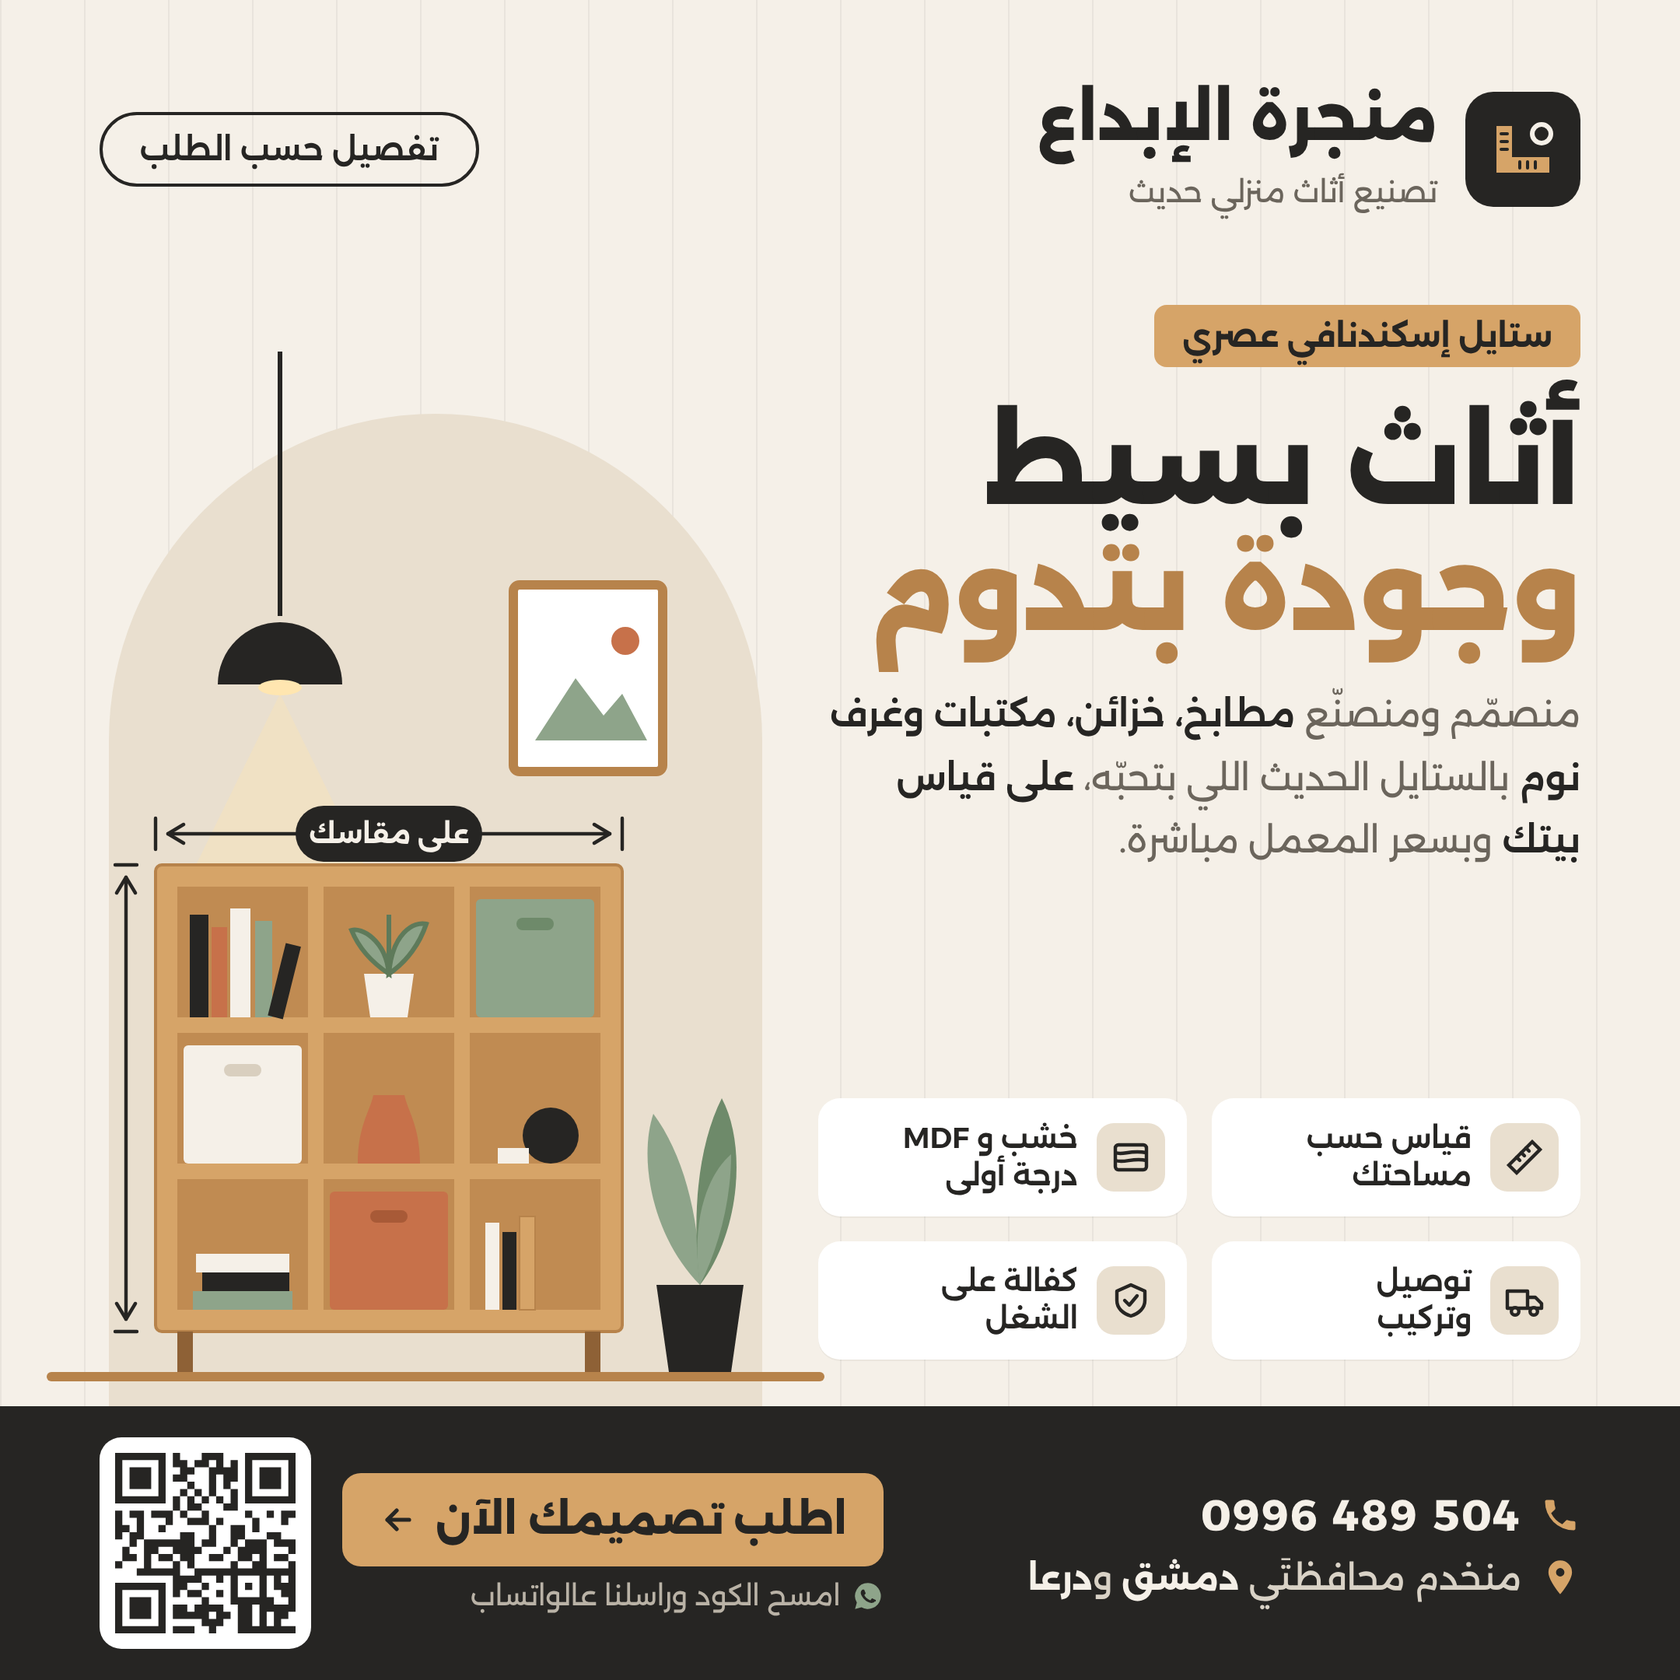
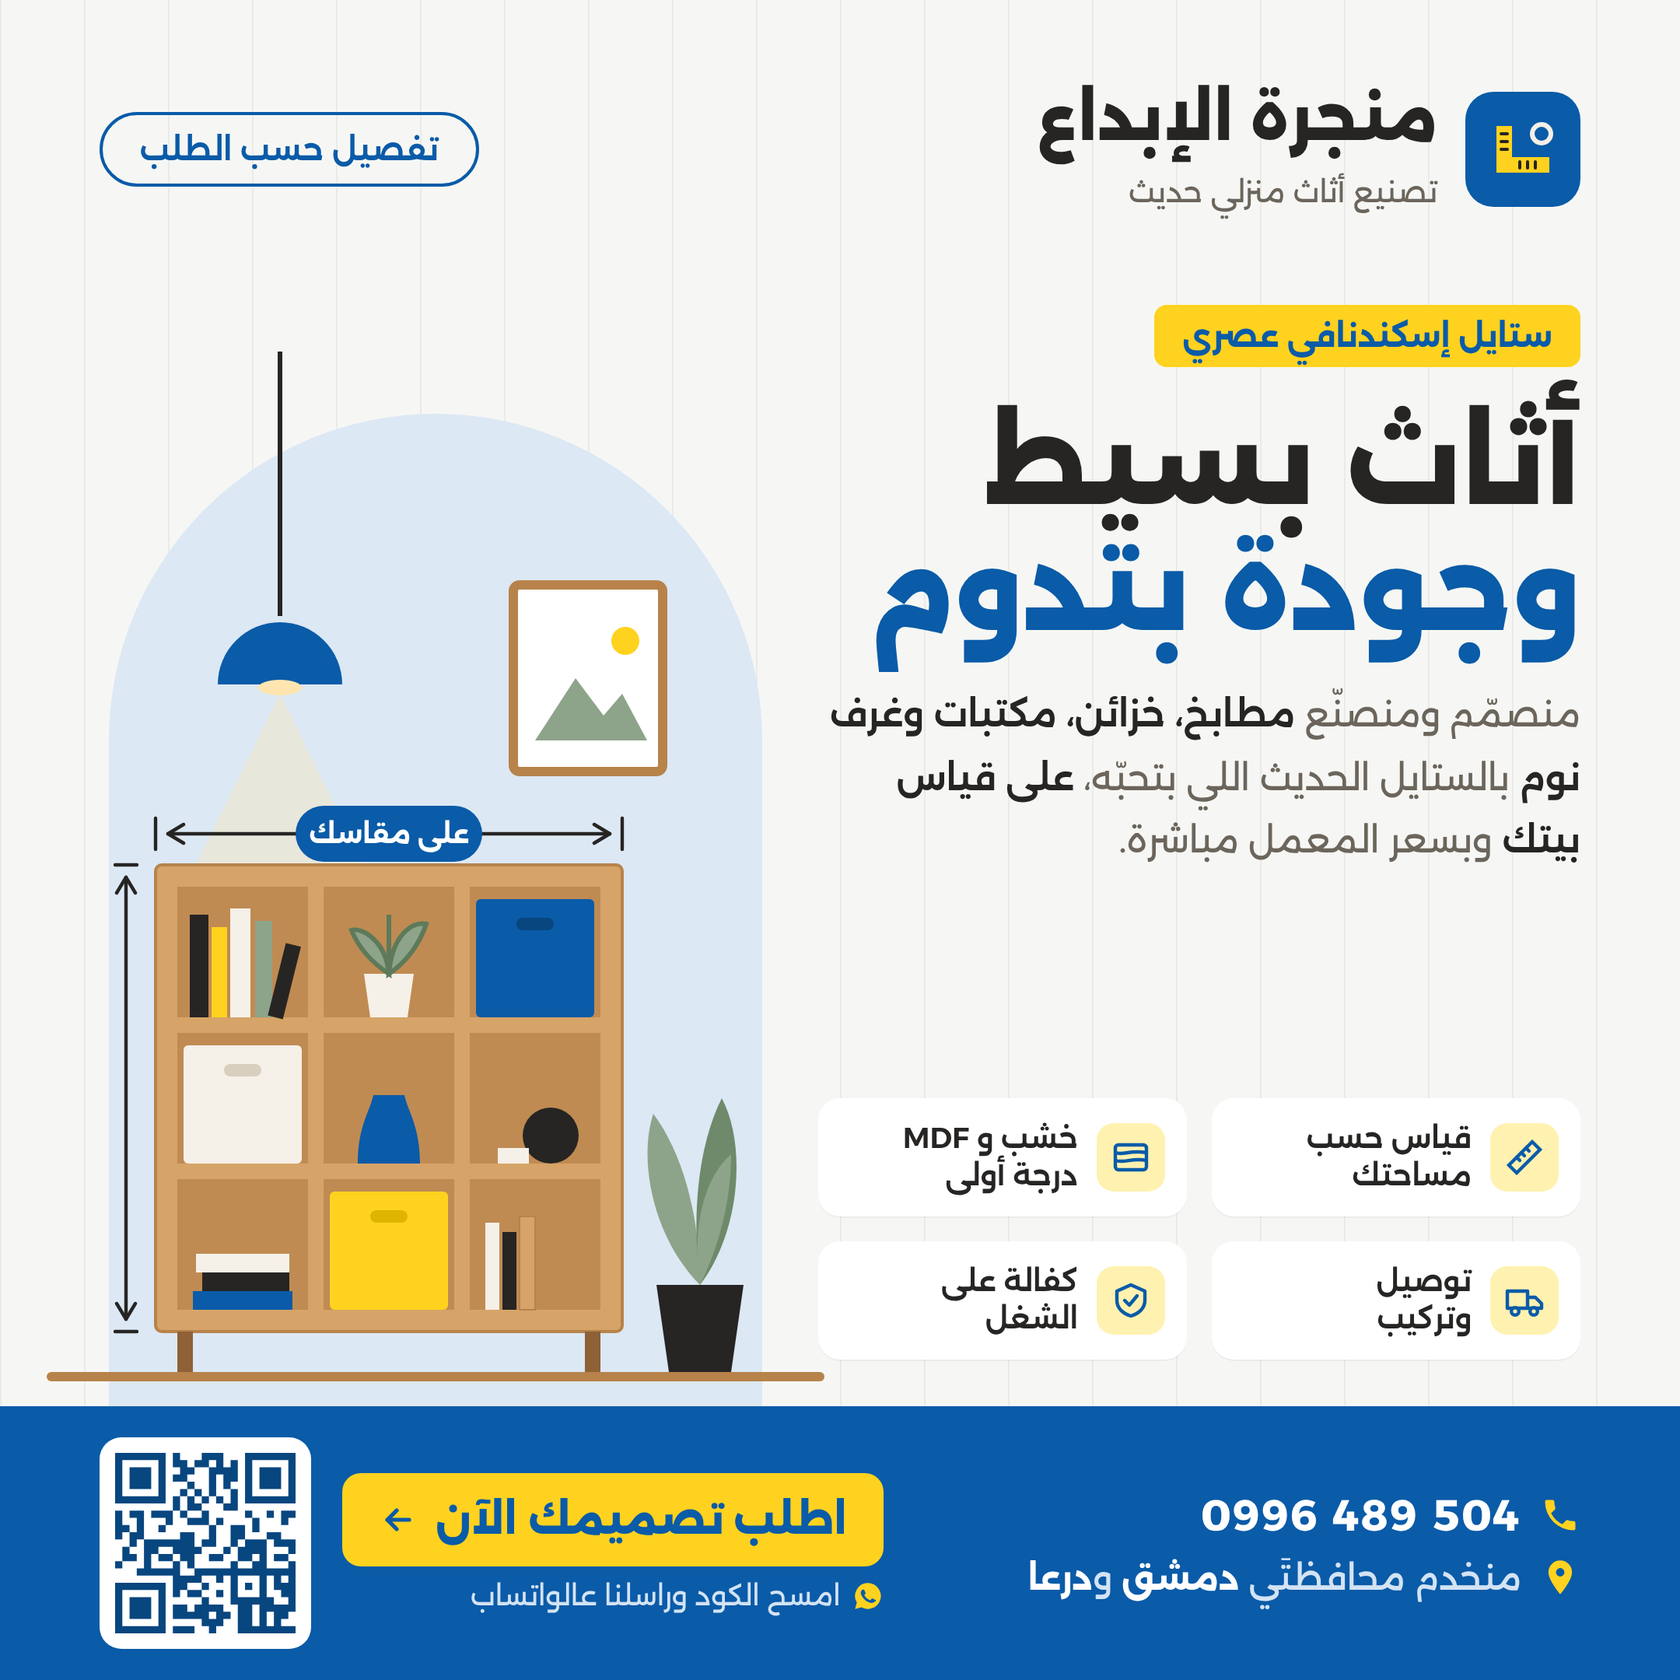
Carpentry promo: blue and yellow color version, keep wood version
Claude-Session: https://claude.ai/code/session_01K9B5MtyaZrtSwtukP1DPcb

diff --git a/marketing/carpentry-square/design-wood.html b/marketing/carpentry-square/design-wood.html
@@ -6,42 +6,42 @@
 <style>
 @font-face{font-family:A;src:url(alexandria-arabic-wght-normal.woff2) format('woff2');font-weight:100 900;unicode-range:U+0600-06FF,U+0750-077F,U+FB50-FDFF,U+FE70-FEFF,U+200C-200E}
 @font-face{font-family:A;src:url(alexandria-latin-wght-normal.woff2) format('woff2');font-weight:100 900}
-:root{--cream:#F5F0E8;--beige:#E9DFCF;--oak:#D6A468;--oak2:#B7834B;--oak3:#8E6136;--ink:#262523;--muted:#6B655C;--sage:#8EA48A;--terra:#C7714A;--blue:#0A5BA8;--yel:#FFD21F;--paper:#F6F7F4;--sky:#DCE8F4}
+:root{--cream:#F5F0E8;--beige:#E9DFCF;--oak:#D6A468;--oak2:#B7834B;--oak3:#8E6136;--ink:#262523;--muted:#6B655C;--sage:#8EA48A;--terra:#C7714A}
 *{margin:0;padding:0;box-sizing:border-box}
-html,body{width:1080px;height:1080px;background:var(--paper);font-family:A,sans-serif;color:var(--ink);overflow:hidden}
+html,body{width:1080px;height:1080px;background:var(--cream);font-family:A,sans-serif;color:var(--ink);overflow:hidden}
 .c{position:relative;width:1080px;height:1080px;overflow:hidden}
 /* grain lines */
 .wood-lines{position:absolute;inset:0;opacity:.05;background:repeating-linear-gradient(90deg,#000 0 1px,transparent 1px 54px)}
 header{position:absolute;top:56px;right:64px;left:64px;display:flex;align-items:center;justify-content:space-between}
 .brand{display:flex;align-items:center;gap:18px}
-.mark{width:74px;height:74px;border-radius:18px;background:var(--blue);display:grid;place-items:center}
+.mark{width:74px;height:74px;border-radius:18px;background:var(--ink);display:grid;place-items:center}
 .bname{font-weight:800;font-size:40px;line-height:1}
 .btag{font-weight:400;font-size:19px;color:var(--muted);margin-top:16px}
-.pill{border:2px solid var(--blue);color:var(--blue);border-radius:999px;padding:10px 24px;font-weight:600;font-size:20px}
+.pill{border:2px solid var(--ink);border-radius:999px;padding:10px 24px;font-weight:600;font-size:20px}
 .text{position:absolute;top:196px;right:64px;width:490px;bottom:206px;display:flex;flex-direction:column;align-items:flex-start}
-.kicker{display:inline-block;background:var(--yel);color:var(--blue);font-weight:700;font-size:20px;padding:8px 18px;border-radius:8px}
+.kicker{display:inline-block;background:var(--oak);color:var(--ink);font-weight:700;font-size:20px;padding:8px 18px;border-radius:8px}
 h1{white-space:nowrap;font-weight:800;font-size:72px;line-height:1.12;margin-top:22px;letter-spacing:-.5px}
-h1 span{color:var(--blue)}
+h1 span{color:var(--oak2)}
 .sub{font-size:23px;line-height:1.75;color:var(--muted);margin-top:20px;font-weight:400}
 .sub b{color:var(--ink);font-weight:600}
 .feats{margin-top:auto;width:100%;display:grid;grid-template-columns:1fr 1fr;gap:16px}
 .f{display:flex;align-items:center;gap:12px;background:#fff;border-radius:14px;padding:14px 14px;box-shadow:0 1px 0 rgba(0,0,0,.04)}
-.f i{flex:none;width:44px;height:44px;border-radius:11px;background:#FFF1B0;display:grid;place-items:center}
+.f i{flex:none;width:44px;height:44px;border-radius:11px;background:var(--beige);display:grid;place-items:center}
 .f p{font-size:18.5px;font-weight:600;line-height:1.3}
 .art{position:absolute;left:30px;top:226px;width:500px;height:700px}
-footer{position:absolute;bottom:0;left:0;right:0;height:176px;background:var(--blue);color:#fff;display:flex;align-items:center;justify-content:space-between;padding:0 64px}
+footer{position:absolute;bottom:0;left:0;right:0;height:176px;background:var(--ink);color:var(--cream);display:flex;align-items:center;justify-content:space-between;padding:0 64px}
 .wa{display:flex;align-items:center;gap:20px}
 .wa-t{display:flex;flex-direction:column;gap:8px;align-items:flex-start}
-.cta{background:var(--yel);color:var(--blue);font-weight:800;font-size:26px;padding:14px 24px;border-radius:12px;display:flex;align-items:center;gap:12px}
-.wa-t small{font-size:18px;color:#D3E3F4;display:flex;align-items:center;gap:8px}
+.cta{background:var(--oak);color:var(--ink);font-weight:800;font-size:26px;padding:14px 24px;border-radius:12px;display:flex;align-items:center;gap:12px}
+.wa-t small{font-size:18px;color:#B9B2A6;display:flex;align-items:center;gap:8px}
 .qr{flex:none;width:136px;height:136px;background:#fff;border-radius:14px;padding:10px}
 .qr img{display:block;width:100%;height:100%}
 .contact{display:flex;flex-direction:column;gap:10px}
 .row{display:flex;align-items:center;gap:12px;font-size:22px;font-weight:500}
 .row .num{font-weight:700;font-size:28px;letter-spacing:1px;direction:ltr;unicode-bidi:isolate}
 .row small{color:#B9B2A6;font-size:19px}
-.area{font-size:22px;color:#D3E3F4}
-.area b{color:#fff;font-weight:700}
+.area{font-size:22px;color:#D9D2C6}
+.area b{color:var(--cream);font-weight:700}
 </style>
 </head>
 <body>
@@ -53,8 +53,8 @@ footer{position:absolute;bottom:0;left:0;right:0;height:176px;background:var(--b
       <div class="mark">
         <!-- plank + square tool mark -->
         <svg width="46" height="46" viewBox="0 0 46 46" fill="none">
-          <path d="M6 8h10v30H6z" fill="#FFD21F"/>
-          <path d="M16 28h24v10H16z" fill="#FFD21F"/>
+          <path d="M6 8h10v30H6z" fill="#D6A468"/>
+          <path d="M16 28h24v10H16z" fill="#D6A468"/>
           <path d="M9 13h4M9 18h4M9 23h4M21 31v4M26 31v4M31 31v4" stroke="#262523" stroke-width="2" stroke-linecap="round"/>
           <circle cx="35" cy="13" r="6" stroke="#F5F0E8" stroke-width="3"/>
         </svg>
@@ -72,10 +72,10 @@ footer{position:absolute;bottom:0;left:0;right:0;height:176px;background:var(--b
     <h1>أثاث بسيط<br><span>وجودة بتدوم</span></h1>
     <p class="sub">منصمّم ومنصنّع <b>مطابخ، خزائن، مكتبات وغرف نوم</b> بالستايل الحديث اللي بتحبّه، <b>على قياس بيتك</b> وبسعر المعمل مباشرة.</p>
   <div class="feats">
-    <div class="f"><i><svg width="26" height="26" viewBox="0 0 26 26" fill="none" stroke="#0A5BA8" stroke-width="2.2" stroke-linecap="round"><path d="M3 18 18 3l5 5L8 23z"/><path d="M8 13l2 2M11 10l2 2M14 7l2 2"/></svg></i><p>قياس حسب<br>مساحتك</p></div>
-    <div class="f"><i><svg width="26" height="26" viewBox="0 0 26 26" fill="none" stroke="#0A5BA8" stroke-width="2.2" stroke-linejoin="round"><rect x="3" y="5" width="20" height="16" rx="2"/><path d="M3 10c5 2 9-2 20 0M3 15c6 2 11-2 20 0"/></svg></i><p>خشب و MDF<br>درجة أولى</p></div>
-    <div class="f"><i><svg width="26" height="26" viewBox="0 0 26 26" fill="none" stroke="#0A5BA8" stroke-width="2.2" stroke-linejoin="round"><path d="M2 7h13v11H2zM15 11h5l4 4v3h-9z"/><circle cx="7" cy="20" r="2.4" fill="#FFF1B0"/><circle cx="19" cy="20" r="2.4" fill="#FFF1B0"/></svg></i><p>توصيل<br>وتركيب</p></div>
-    <div class="f"><i><svg width="26" height="26" viewBox="0 0 26 26" fill="none" stroke="#0A5BA8" stroke-width="2.2" stroke-linecap="round" stroke-linejoin="round"><path d="M13 3 4 7v6c0 5 4 8.5 9 10 5-1.5 9-5 9-10V7z"/><path d="m9 13 3 3 5-6"/></svg></i><p>كفالة على<br>الشغل</p></div>
+    <div class="f"><i><svg width="26" height="26" viewBox="0 0 26 26" fill="none" stroke="#262523" stroke-width="2.2" stroke-linecap="round"><path d="M3 18 18 3l5 5L8 23z"/><path d="M8 13l2 2M11 10l2 2M14 7l2 2"/></svg></i><p>قياس حسب<br>مساحتك</p></div>
+    <div class="f"><i><svg width="26" height="26" viewBox="0 0 26 26" fill="none" stroke="#262523" stroke-width="2.2" stroke-linejoin="round"><rect x="3" y="5" width="20" height="16" rx="2"/><path d="M3 10c5 2 9-2 20 0M3 15c6 2 11-2 20 0"/></svg></i><p>خشب و MDF<br>درجة أولى</p></div>
+    <div class="f"><i><svg width="26" height="26" viewBox="0 0 26 26" fill="none" stroke="#262523" stroke-width="2.2" stroke-linejoin="round"><path d="M2 7h13v11H2zM15 11h5l4 4v3h-9z"/><circle cx="7" cy="20" r="2.4" fill="#E9DFCF"/><circle cx="19" cy="20" r="2.4" fill="#E9DFCF"/></svg></i><p>توصيل<br>وتركيب</p></div>
+    <div class="f"><i><svg width="26" height="26" viewBox="0 0 26 26" fill="none" stroke="#262523" stroke-width="2.2" stroke-linecap="round" stroke-linejoin="round"><path d="M13 3 4 7v6c0 5 4 8.5 9 10 5-1.5 9-5 9-10V7z"/><path d="m9 13 3 3 5-6"/></svg></i><p>كفالة على<br>الشغل</p></div>
   </div>
   </section>
 
@@ -83,14 +83,14 @@ footer{position:absolute;bottom:0;left:0;right:0;height:176px;background:var(--b
   <!-- Illustration -->
   <svg class="art" viewBox="0 0 500 700" fill="none">
     <!-- backdrop arch -->
-    <path d="M40 690V250a210 210 0 0 1 420 0v440z" fill="#DCE8F4"/>
+    <path d="M40 690V250a210 210 0 0 1 420 0v440z" fill="#E9DFCF"/>
     <!-- wall frame -->
     <rect x="300" y="150" width="96" height="120" rx="4" fill="#fff" stroke="#B7834B" stroke-width="6"/>
     <path d="M314 250l26-40 18 24 12-14 16 30z" fill="#8EA48A"/>
-    <circle cx="372" cy="186" r="9" fill="#FFD21F"/>
+    <circle cx="372" cy="186" r="9" fill="#C7714A"/>
     <!-- pendant lamp -->
     <path d="M150 0v170" stroke="#262523" stroke-width="3"/>
-    <path d="M110 214a40 40 0 0 1 80 0z" fill="#0A5BA8"/>
+    <path d="M110 214a40 40 0 0 1 80 0z" fill="#262523"/>
     <ellipse cx="150" cy="216" rx="14" ry="5" fill="#FFE6B0"/>
     <path d="M150 220 96 330h108z" fill="#FFE6B0" opacity=".35"/>
     <!-- shelf unit 3x3 -->
@@ -105,20 +105,20 @@ footer{position:absolute;bottom:0;left:0;right:0;height:176px;background:var(--b
       </g>
       <!-- contents -->
       <!-- books -->
-      <rect x="92" y="362" width="12" height="66" fill="#262523"/><rect x="106" y="370" width="10" height="58" fill="#FFD21F"/><rect x="118" y="358" width="13" height="70" fill="#F5F0E8"/><rect x="134" y="366" width="11" height="62" fill="#8EA48A"/>
+      <rect x="92" y="362" width="12" height="66" fill="#262523"/><rect x="106" y="370" width="10" height="58" fill="#C7714A"/><rect x="118" y="358" width="13" height="70" fill="#F5F0E8"/><rect x="134" y="366" width="11" height="62" fill="#8EA48A"/>
       <rect x="142" y="380" width="10" height="48" fill="#262523" transform="rotate(14 147 428)"/>
       <!-- plant in pot -->
       <path d="M204 400h32l-4 28h-24z" fill="#F5F0E8"/>
       <path d="M220 400c-2-22-18-30-24-28 4 10 12 20 24 28zM220 400c2-26 16-34 24-32-4 12-12 24-24 32zM220 400c0-20 0-30 0-38" stroke="#5E7A5A" stroke-width="3" fill="#8EA48A"/>
       <!-- bins -->
-      <rect x="276" y="352" width="76" height="76" rx="3" fill="#0A5BA8"/><rect x="302" y="364" width="24" height="8" rx="4" fill="#08467F"/>
+      <rect x="276" y="352" width="76" height="76" rx="3" fill="#8EA48A"/><rect x="302" y="364" width="24" height="8" rx="4" fill="#6E8A6A"/>
       <rect x="88" y="446" width="76" height="76" rx="3" fill="#F5F0E8"/><rect x="114" y="458" width="24" height="8" rx="4" fill="#D9CFBF"/>
       <!-- vase + ball -->
-      <path d="M200 522c0-24 8-34 10-44h20c2 10 10 20 10 44z" fill="#0A5BA8"/>
+      <path d="M200 522c0-24 8-34 10-44h20c2 10 10 20 10 44z" fill="#C7714A"/>
       <circle cx="324" cy="504" r="18" fill="#262523"/><rect x="290" y="512" width="20" height="10" fill="#F5F0E8"/>
       <!-- bottom row -->
-      <rect x="182" y="540" width="76" height="76" rx="3" fill="#FFD21F"/><rect x="208" y="552" width="24" height="8" rx="4" fill="#E0B400"/>
-      <rect x="96" y="580" width="60" height="12" fill="#F5F0E8"/><rect x="100" y="592" width="56" height="12" fill="#262523"/><rect x="94" y="604" width="64" height="12" fill="#0A5BA8"/>
+      <rect x="182" y="540" width="76" height="76" rx="3" fill="#C7714A"/><rect x="208" y="552" width="24" height="8" rx="4" fill="#A85A37"/>
+      <rect x="96" y="580" width="60" height="12" fill="#F5F0E8"/><rect x="100" y="592" width="56" height="12" fill="#262523"/><rect x="94" y="604" width="64" height="12" fill="#8EA48A"/>
       <rect x="282" y="560" width="9" height="56" fill="#F5F0E8"/><rect x="293" y="566" width="9" height="50" fill="#262523"/><rect x="304" y="556" width="10" height="60" fill="#D6A468" stroke="#B7834B"/>
       <!-- legs -->
       <rect x="84" y="630" width="10" height="26" fill="#8E6136"/><rect x="346" y="630" width="10" height="26" fill="#8E6136"/>
@@ -135,8 +135,8 @@ footer{position:absolute;bottom:0;left:0;right:0;height:176px;background:var(--b
       <path d="M70 300v20M370 300v20M78 310h284"/>
       <path d="M78 310l10-6M78 310l10 6M362 310l-10-6M362 310l-10 6"/>
     </g>
-    <rect x="160" y="292" width="120" height="36" rx="18" fill="#0A5BA8"/>
-    <text x="220" y="316" text-anchor="middle" font-family="A" font-weight="700" font-size="17" fill="#fff">على مقاسك</text>
+    <rect x="160" y="292" width="120" height="36" rx="18" fill="#262523"/>
+    <text x="220" y="316" text-anchor="middle" font-family="A" font-weight="700" font-size="17" fill="#F5F0E8">على مقاسك</text>
     <!-- dimension: height -->
     <g stroke="#262523" stroke-width="2.2" stroke-linecap="round">
       <path d="M44 330h14M44 630h14M51 338v284"/>
@@ -146,17 +146,17 @@ footer{position:absolute;bottom:0;left:0;right:0;height:176px;background:var(--b
 
   <footer>
     <div class="contact">
-      <div class="row"><svg width="26" height="26" viewBox="0 0 24 24" fill="#FFD21F"><path d="M6.6 10.8a15.2 15.2 0 0 0 6.6 6.6l2.2-2.2c.3-.3.7-.4 1-.2 1.1.4 2.3.6 3.6.6.6 0 1 .4 1 1V20c0 .6-.4 1-1 1A17 17 0 0 1 3 4c0-.6.4-1 1-1h3.5c.6 0 1 .4 1 1 0 1.3.2 2.5.6 3.6.1.3 0 .7-.2 1z"/></svg><span class="num">0996 489 504</span></div>
-      <div class="row area"><svg width="26" height="26" viewBox="0 0 24 24" fill="#FFD21F"><path d="M12 2a7 7 0 0 0-7 7c0 5 7 13 7 13s7-8 7-13a7 7 0 0 0-7-7zm0 9.5a2.5 2.5 0 1 1 0-5 2.5 2.5 0 0 1 0 5z"/></svg><span>منخدم محافظتَي <b>دمشق</b> و<b>درعا</b></span></div>
+      <div class="row"><svg width="26" height="26" viewBox="0 0 24 24" fill="#D6A468"><path d="M6.6 10.8a15.2 15.2 0 0 0 6.6 6.6l2.2-2.2c.3-.3.7-.4 1-.2 1.1.4 2.3.6 3.6.6.6 0 1 .4 1 1V20c0 .6-.4 1-1 1A17 17 0 0 1 3 4c0-.6.4-1 1-1h3.5c.6 0 1 .4 1 1 0 1.3.2 2.5.6 3.6.1.3 0 .7-.2 1z"/></svg><span class="num">0996 489 504</span></div>
+      <div class="row area"><svg width="26" height="26" viewBox="0 0 24 24" fill="#D6A468"><path d="M12 2a7 7 0 0 0-7 7c0 5 7 13 7 13s7-8 7-13a7 7 0 0 0-7-7zm0 9.5a2.5 2.5 0 1 1 0-5 2.5 2.5 0 0 1 0 5z"/></svg><span>منخدم محافظتَي <b>دمشق</b> و<b>درعا</b></span></div>
     </div>
     <div class="wa">
       <div class="wa-t">
         <div class="cta">اطلب تصميمك الآن
-          <svg width="24" height="24" viewBox="0 0 24 24" fill="none" stroke="#0A5BA8" stroke-width="2.6" stroke-linecap="round" stroke-linejoin="round"><path d="M19 12H5M11 6l-6 6 6 6"/></svg>
+          <svg width="24" height="24" viewBox="0 0 24 24" fill="none" stroke="#262523" stroke-width="2.6" stroke-linecap="round" stroke-linejoin="round"><path d="M19 12H5M11 6l-6 6 6 6"/></svg>
         </div>
-        <small><svg width="20" height="20" viewBox="0 0 24 24" fill="#FFD21F"><path d="M12 2a10 10 0 0 0-8.6 15.1L2 22l5-1.3A10 10 0 1 0 12 2zm5.3 14.1c-.2.6-1.3 1.2-1.8 1.2-.5.1-1 .2-3.3-.7-2.8-1.1-4.5-4-4.7-4.2-.1-.2-1.1-1.5-1.1-2.8s.7-2 1-2.3c.2-.3.5-.3.7-.3h.5c.2 0 .4 0 .6.5l.9 2.1c.1.2.1.3 0 .5l-.3.5-.4.4c-.1.1-.3.3-.1.6.2.3.8 1.3 1.7 2.1 1.2 1 2.1 1.3 2.4 1.5.3.1.5.1.6-.1l.9-1.1c.2-.3.4-.2.6-.1l2 1c.3.1.5.2.5.3.1.1.1.6-.1 1.2z"/></svg>امسح الكود وراسلنا عالواتساب</small>
+        <small><svg width="20" height="20" viewBox="0 0 24 24" fill="#8EA48A"><path d="M12 2a10 10 0 0 0-8.6 15.1L2 22l5-1.3A10 10 0 1 0 12 2zm5.3 14.1c-.2.6-1.3 1.2-1.8 1.2-.5.1-1 .2-3.3-.7-2.8-1.1-4.5-4-4.7-4.2-.1-.2-1.1-1.5-1.1-2.8s.7-2 1-2.3c.2-.3.5-.3.7-.3h.5c.2 0 .4 0 .6.5l.9 2.1c.1.2.1.3 0 .5l-.3.5-.4.4c-.1.1-.3.3-.1.6.2.3.8 1.3 1.7 2.1 1.2 1 2.1 1.3 2.4 1.5.3.1.5.1.6-.1l.9-1.1c.2-.3.4-.2.6-.1l2 1c.3.1.5.2.5.3.1.1.1.6-.1 1.2z"/></svg>امسح الكود وراسلنا عالواتساب</small>
       </div>
-      <div class="qr"><img src="wa-qr.svg" alt="WhatsApp QR"></div>
+      <div class="qr"><img src="wa-qr-dark.svg" alt="WhatsApp QR"></div>
     </div>
   </footer>
 </div>

diff --git a/marketing/carpentry-square/README.md b/marketing/carpentry-square/README.md
@@ -2,13 +2,16 @@
 
 Promo for منجرة الإبداع: modern Scandinavian-style furniture, in Arabic, with no third-party brand names.
 
-- `design.html` holds the source. Edit the text, phone number and colors here.
-- `carpentry-square.png` is the exported image at 2160×2160.
-- `wa-qr.svg` is the WhatsApp QR code. It opens a chat with https://wa.me/963996489504.
+Two color versions exist:
+
+- **Blue and yellow:** `design.html` exports to `carpentry-square.png`. Its QR code is `wa-qr.svg`.
+- **Warm wood:** `design-wood.html` exports to `carpentry-square-wood.png`. Its QR code is `wa-qr-dark.svg`.
+
+Both QR codes open a WhatsApp chat with https://wa.me/963996489504. Images export at 2160×2160.
 
 Re-export after edits:
 
 ```
 node render.mjs "$PWD/design.html" "$PWD/carpentry-square.png"
+node render.mjs "$PWD/design-wood.html" "$PWD/carpentry-square-wood.png"
 ```
-
